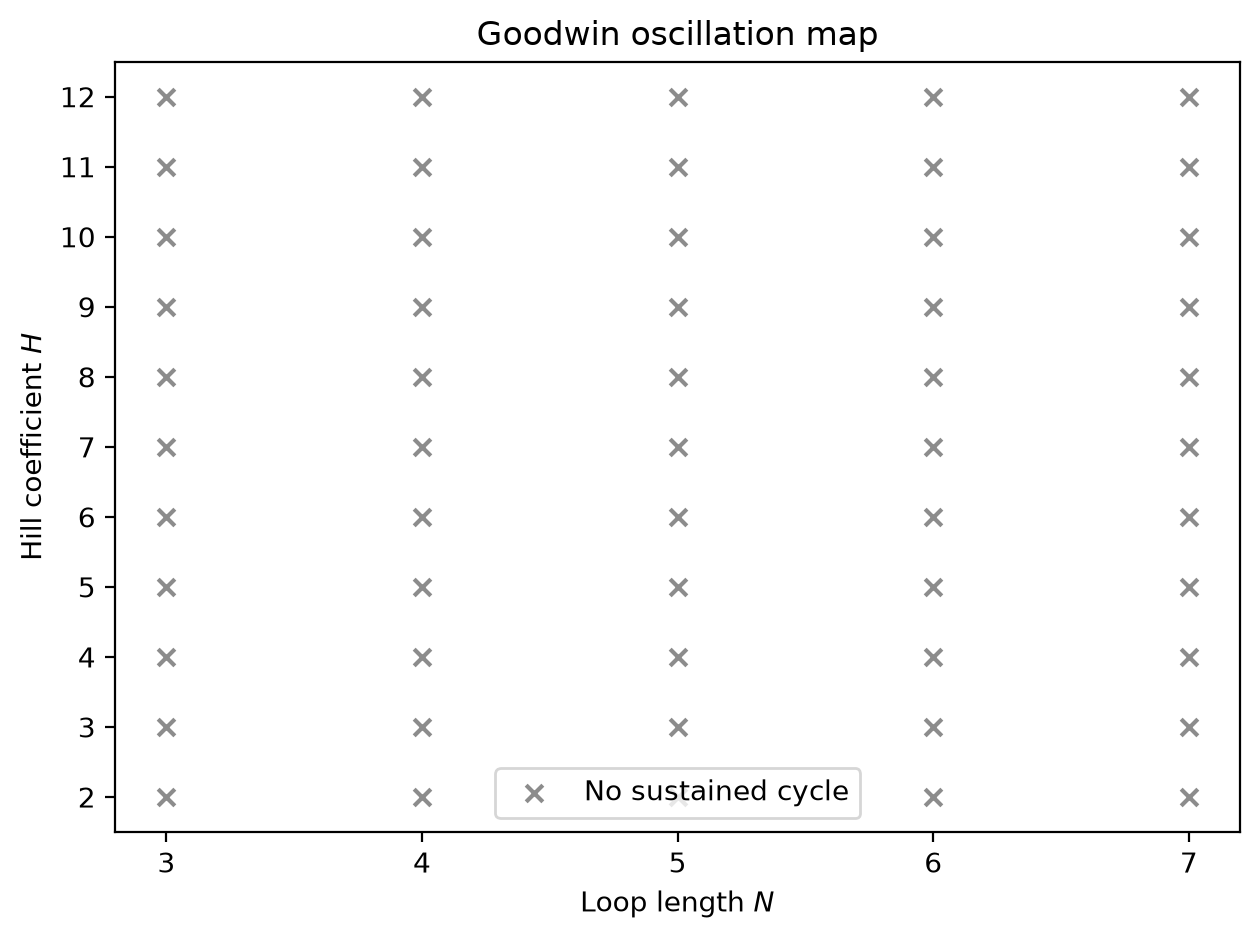
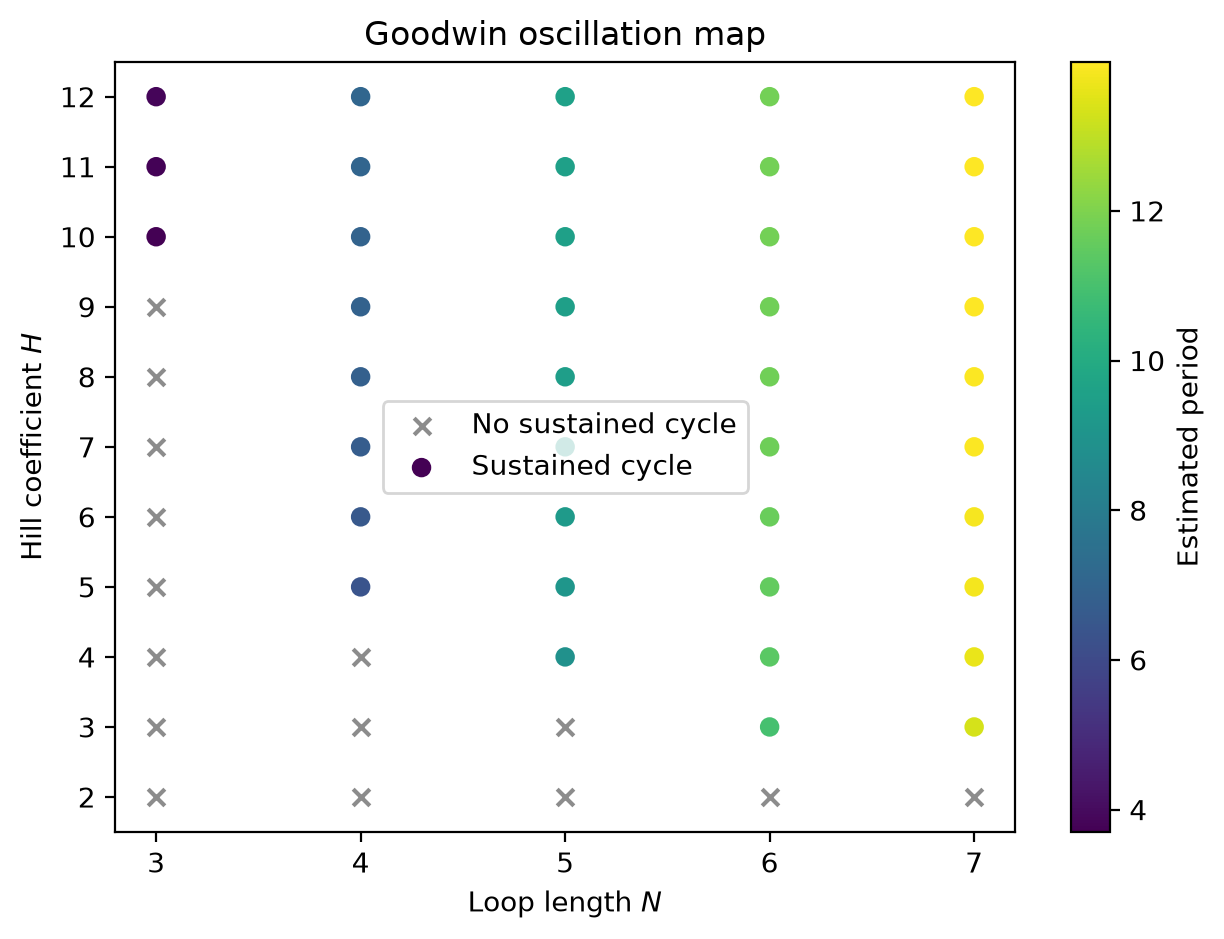
Finished Q2 and Q3a

diff --git a/q2.py b/q2.py
@@ -27,14 +27,31 @@ def save_figure(fig, filename):
 # Question 2(a): implement the unscaled Goldbeter model.
 def goldbeter_rhs(t, x, p=PARAMS):
     """Evaluate the Goldbeter model for ``x = [M, P0, P1, P2, PN]``."""
-    # YOUR CODE HERE
+    J1 = (p["v1"]*x[1])/(p["k1"] + x[1])
+    J2 = (p["v2"]*x[2])/(p["k2"] + x[2])
+    J3 = (p["v3"]*x[2])/(p["k3"] + x[2])
+    J4 = (p["v4"]*x[3])/(p["k4"] + x[3])
+
+    dM = (p["vs"])/(1 + (x[4]/p["ki"])**p["n"]) - (p["vm"]*x[0])/(p["km1"] + x[0])
+    dP0 = p["ks"]*x[0] - J1 + J2
+    dP1 = J1 - J2 - J3 + J4
+    dP2 = J3 - J4 - p["kt1"]*x[3] + p["kt2"]*x[4] - (p["vd"]*x[3])/(p["kd"] + x[3])
+    dPN = p["kt1"]*x[3] - p["kt2"]*x[4]
+
+    return [dM, dP0, dP1, dP2, dPN]
     raise NotImplementedError()
 
 
 # Question 2(a): add timescale separation around the supplied model.
 def goldbeter_rhs_epsilon(t, x, p=PARAMS, epsilon=1.0):
     """Scale ``v1``--``v4`` by ``1/epsilon`` and call ``goldbeter_rhs``."""
-    # YOUR CODE HERE
+    scaled_params = p.copy()
+    scaled_params["v1"] = p["v1"]/epsilon
+    scaled_params["v2"] = p["v2"]/epsilon
+    scaled_params["v3"] = p["v3"]/epsilon
+    scaled_params["v4"] = p["v4"]/epsilon
+
+    return goldbeter_rhs(t, x , p=scaled_params)
     raise NotImplementedError()
 
 
@@ -60,14 +77,16 @@ def estimate_period(solution):
 # Question 2(b): count steps used by the full-model solver.
 def rk45_step_count(epsilon):
     """Run RK45 and return its number of time steps."""
-    # YOUR CODE HERE
+    sol = simulate(epsilon=epsilon)
+    return len(sol.t) - 1
     raise NotImplementedError()
 
 
 # Question 2(b): count steps used by the Radau solver.
 def radau_step_count(epsilon):
     """Run Radau and return its number of time steps."""
-    # YOUR CODE HERE
+    sol = simulate(epsilon=epsilon, method="Radau")
+    return len(sol.t) - 1
     raise NotImplementedError()
 
 

diff --git a/q1.py b/q1.py
@@ -87,24 +87,31 @@ def oscillation_stats(N, H, alpha=ALPHA, discard=3, end=300, samples=12001):
 
     sol = solve_ivp(lambda t, x: goodwin_rhs(t, x, alpha, H),
                     [times[0], times[-1]], x0, t_eval=times, rtol=1e-8, atol=1e-10)
+    if not sol.success:
+            raise RuntimeError(sol.message)
 
     min_peak_to_trough_amplitude = 10**-2
     
-    peaks = find_peaks(sol.y[0], prominence=10**-2)[0][discard:]    
+    peaks = find_peaks(sol.y[0])[0][discard:]    
 
     if len(peaks) < 4:
         # All peaks that are there are discarded, and dont meet the requirement of 4 minimum peaks
         return (np.nan, np.nan)
 
-    
-    mean = np.mean(peaks)
-    std = np.std(peaks)
     time = np.diff(sol.t[peaks])
+    mean = np.mean(time)
+    std = np.std(time, ddof=1)
 
     coefficent_of_variation = std/mean # less than or equal to 1% (0.01)
-    relative_change = np.abs(np.ptp(peaks[-1]) - np.ptp(peaks[-2]))/(max(peaks[-1], peaks[-2]))
+    A_n = np.ptp(sol.y[0][peaks[-2]:peaks[-1] + 1])
 
-    if coefficent_of_variation <= 0.01 or relative_change <= 0.001:
+    if A_n < min_peak_to_trough_amplitude:
+        return (np.nan, np.nan)
+
+    A_n1 = np.ptp(sol.y[0][peaks[-3]:peaks[-2] + 1])
+    relative_change = np.abs(A_n - A_n1)/(max(A_n, A_n1))
+
+    if coefficent_of_variation > 0.01 or relative_change > 0.001:
         return (np.nan, np.nan)
     
     return (mean, std)

diff --git a/q3.py b/q3.py
@@ -42,7 +42,9 @@ def _period_from_solution(sol):
 # Question 3(a): estimate the period at the supplied degradation rate.
 def estimate_period(vd):
     """Estimate the stable late-cycle period of nuclear PER."""
-    # YOUR CODE HERE
+    sol = simulate(vd)
+    period = _period_from_solution(sol)
+    return period
     raise NotImplementedError()
 
 
